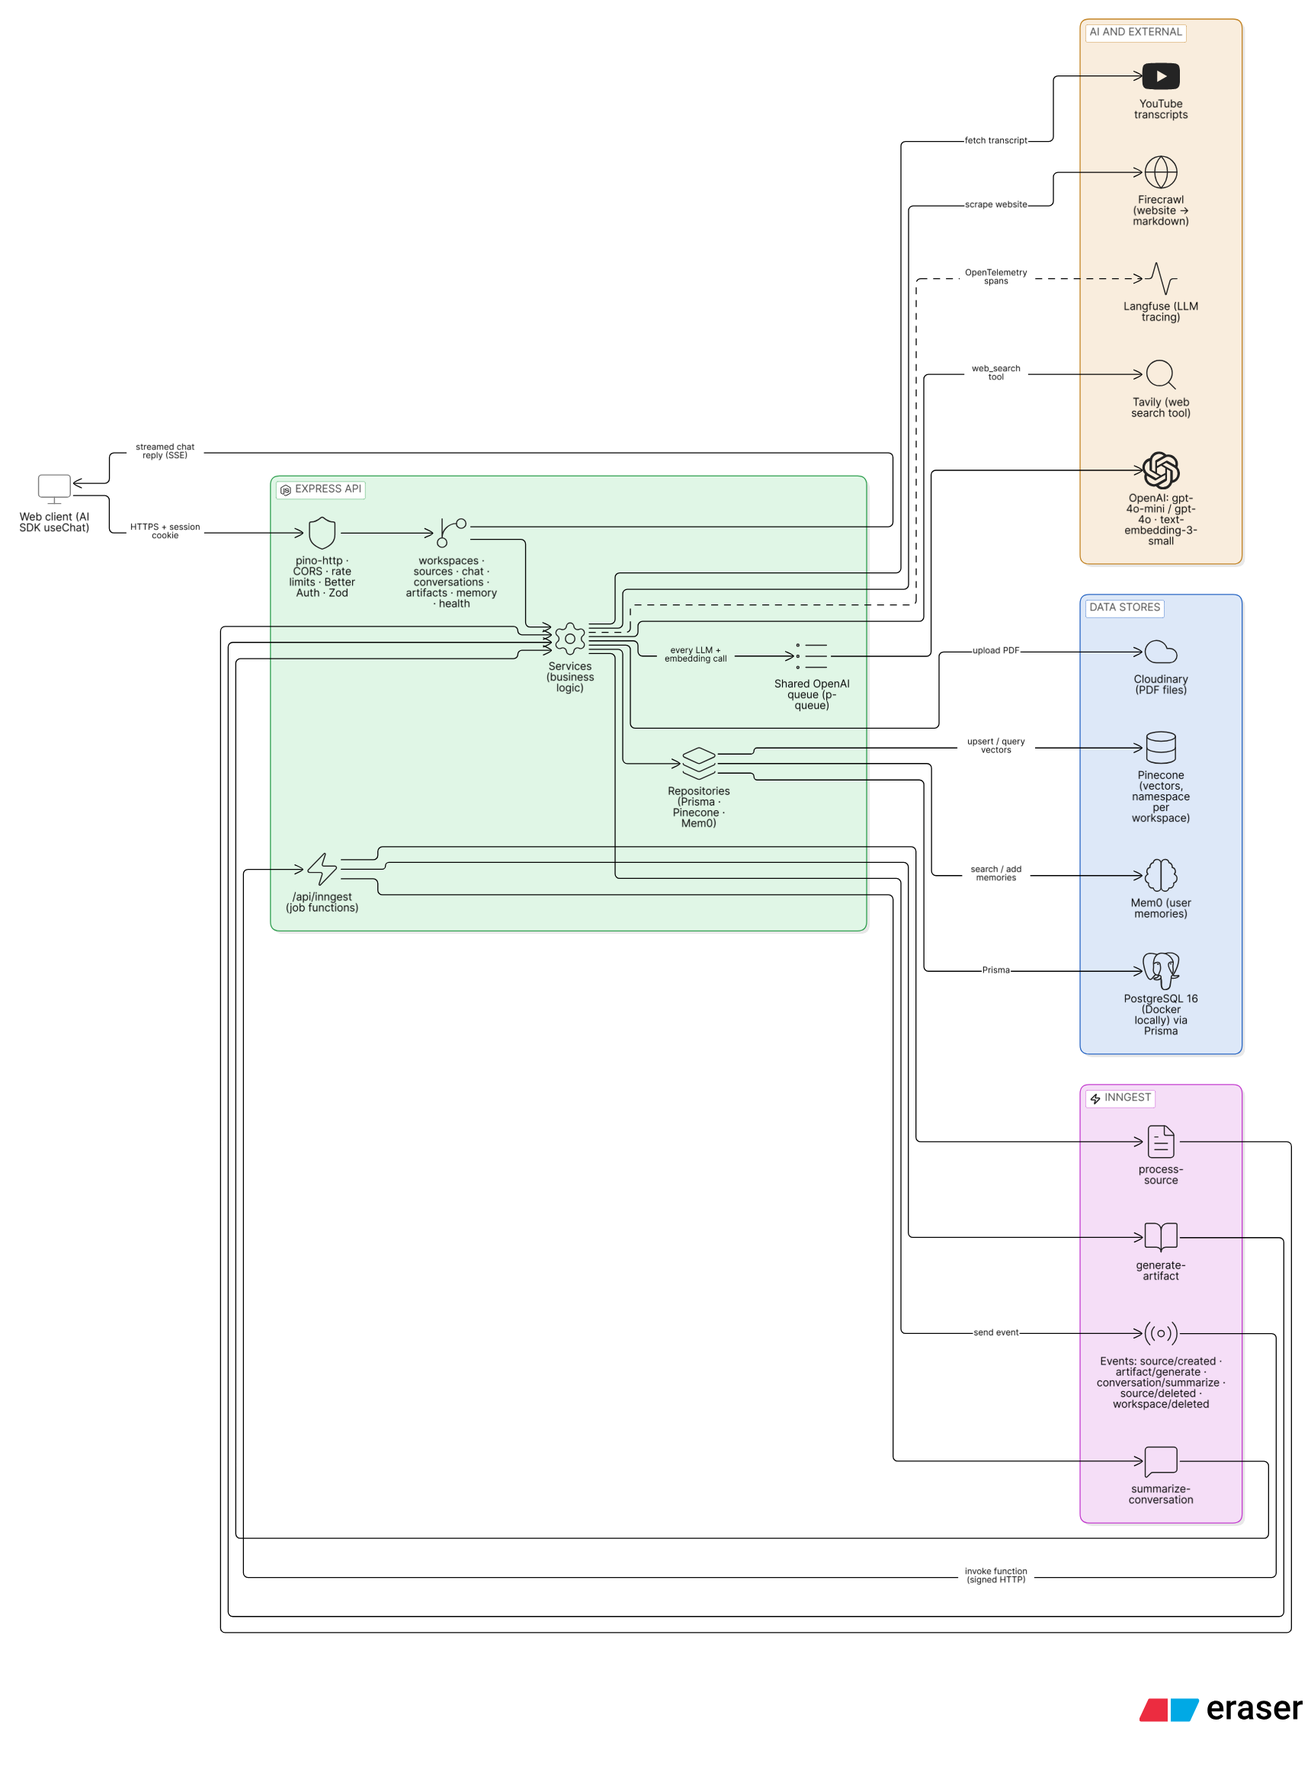
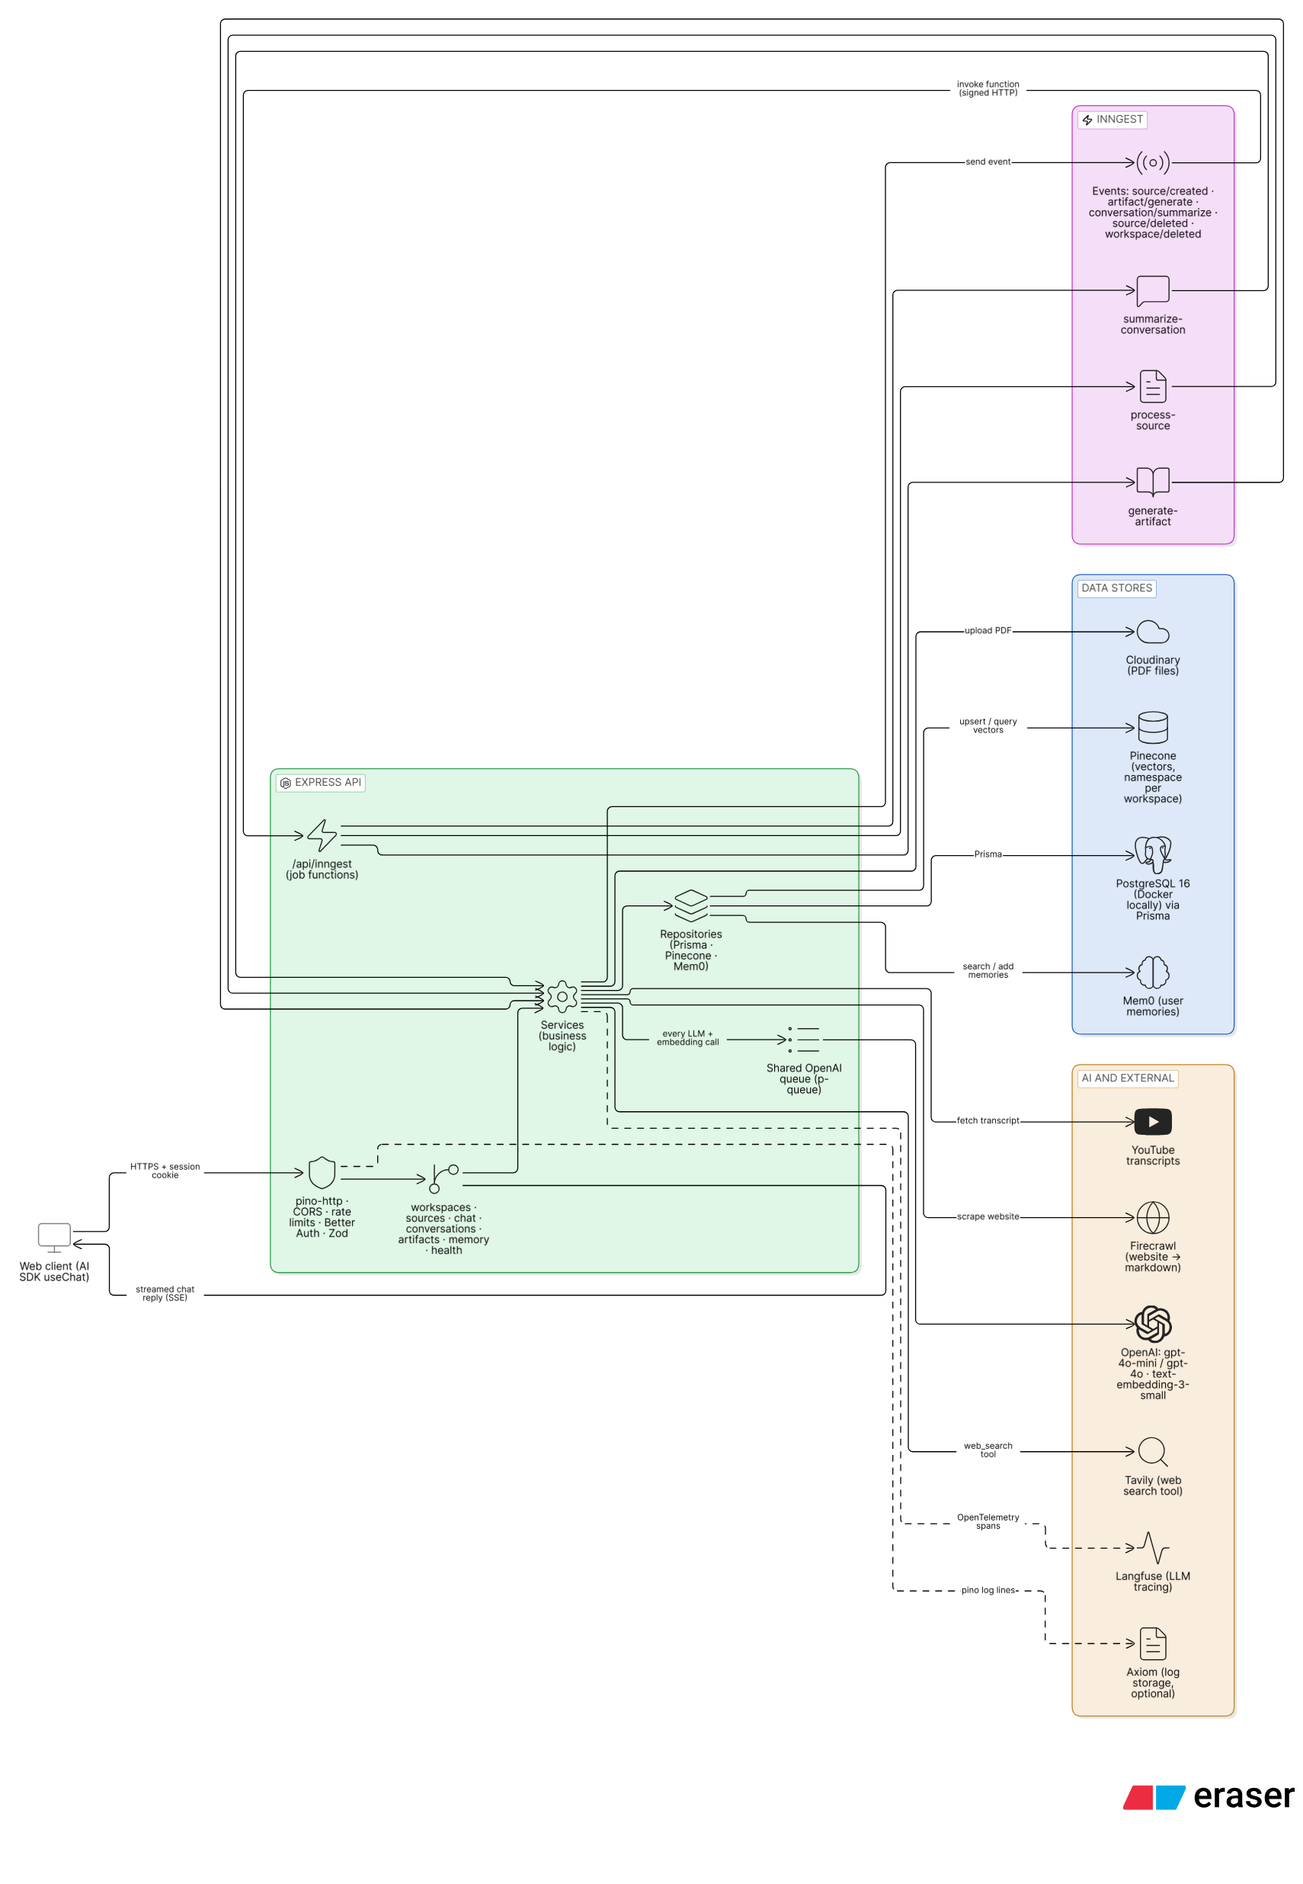
Ship logs to Axiom when configured

diff --git a/src/config/logger.ts b/src/config/logger.ts
@@ -4,27 +4,56 @@
  * JSON lines in production so any log platform can parse them; pretty-printed in
  * development. Per-request child loggers with a request id are attached by `pino-http`
  * in `app.ts` (`req.log`).
+ *
+ * When `AXIOM_TOKEN` is set, every log line is also shipped to Axiom's `AXIOM_DATASET`
+ * (searchable in its web UI), in addition to the console output.
  */
 
-import pino from "pino";
+import pino, { type TransportTargetOptions } from "pino";
 import { env, isProduction } from "./env.js";
+
+/** Minimum level written, from `LOG_LEVEL` or `info` in production / `debug` otherwise. */
+const level = env.LOG_LEVEL ?? (isProduction ? "info" : "debug");
+
+/** Console output: pretty in development, plain JSON on stdout in production. */
+const consoleTarget: TransportTargetOptions = isProduction
+    ? { target: "pino/file", level, options: { destination: 1 } }
+    : {
+          target: "pino-pretty",
+          level,
+          options: { translateTime: "SYS:HH:MM:ss", ignore: "pid,hostname" },
+      };
+
+/** Axiom output, only when a token is configured (env validation then guarantees a dataset). */
+const axiomTarget: TransportTargetOptions | null =
+    env.AXIOM_TOKEN && env.AXIOM_DATASET
+        ? {
+              target: "@axiomhq/pino",
+              level,
+              options: {
+                  token: env.AXIOM_TOKEN,
+                  dataset: env.AXIOM_DATASET,
+                  ...(env.AXIOM_EDGE ? { edge: env.AXIOM_EDGE } : {}),
+              },
+          }
+        : null;
+
+/**
+ * Transports to run in pino's worker thread. Production without Axiom writes straight to
+ * stdout instead (no worker), which is the fastest option.
+ */
+const targets = axiomTarget ? [consoleTarget, axiomTarget] : isProduction ? [] : [consoleTarget];
 
 /**
  * Root pino logger. Use `logger.child({ component })` for module-scoped loggers.
  *
- * Level comes from `LOG_LEVEL`, defaulting to `info` in production and `debug` otherwise.
  * Auth and cookie headers are redacted from logged requests/responses.
  */
 export const logger = pino({
-    level: env.LOG_LEVEL ?? (isProduction ? "info" : "debug"),
+    level,
     redact: {
         paths: ["req.headers.authorization", "req.headers.cookie", 'res.headers["set-cookie"]'],
         censor: "[redacted]",
     },
-    transport: isProduction
-        ? undefined
-        : {
-              target: "pino-pretty",
-              options: { translateTime: "SYS:HH:MM:ss", ignore: "pid,hostname" },
-          },
+    transport: targets.length > 0 ? { targets } : undefined,
 });

diff --git a/src/config/env.ts b/src/config/env.ts
@@ -80,6 +80,12 @@ const envSchema = z
         LANGFUSE_SECRET_KEY: optionalString,
         // EU cloud by default; US is https://us.cloud.langfuse.com, or your self-hosted URL.
         LANGFUSE_BASE_URL: optional(z.url()),
+
+        // Log shipping to Axiom; enabled by AXIOM_TOKEN, otherwise logs only go to stdout.
+        AXIOM_TOKEN: optionalString,
+        AXIOM_DATASET: optionalString,
+        // Regional ingest domain without scheme, e.g. eu-central-1.aws.edge.axiom.co. Blank = US.
+        AXIOM_EDGE: optionalString,
     })
     .superRefine((value, ctx) => {
         /**
@@ -108,6 +114,15 @@ const envSchema = z
             "signed Cloudinary downloads",
         );
         requireTogether(["LANGFUSE_PUBLIC_KEY", "LANGFUSE_SECRET_KEY"], "Langfuse tracing");
+
+        // AXIOM_TOKEN switches log shipping on; the dataset may be preset without a token.
+        if (value.AXIOM_TOKEN && !value.AXIOM_DATASET) {
+            ctx.addIssue({
+                code: "custom",
+                path: ["AXIOM_DATASET"],
+                message: "Required when AXIOM_TOKEN is set (Axiom log shipping)",
+            });
+        }
 
         const inngestDev = value.INNGEST_DEV === "1" || value.INNGEST_DEV === "true";
 

diff --git a/docs/ARCHITECTURE.md b/docs/ARCHITECTURE.md
@@ -98,6 +98,7 @@ flowchart LR
         FC["Firecrawl<br/>website scraping"]
         YT["YouTube<br/>transcripts"]
         LF["Langfuse<br/>LLM tracing"]
+        AX["Axiom<br/>log storage (optional)"]
     end
 
     Client -- "HTTPS + session cookie" --> MW
@@ -113,6 +114,7 @@ flowchart LR
     Svc --> FC
     Svc --> YT
     Svc -. OpenTelemetry spans .-> LF
+    MW -. pino log lines .-> AX
 ```
 
 <details>
@@ -204,6 +206,7 @@ flowchart LR
 | -------------------------------- | ---------------- | ------------------------------------------------------------------------------------- |
 | **pino** + **pino-http**         | Fast JSON logger | One structured log line per request with a request id; JSON in production             |
 | **pino-pretty** (dev only)       | Log formatter    | Readable, coloured logs in development                                                |
+| **Axiom** (`@axiomhq/pino`)      | Log storage      | Optional: ships every log line to Axiom so logs are stored and searchable in a web UI |
 | **Langfuse** + **OpenTelemetry** | LLM tracing      | See every prompt, response, token count and latency, grouped by user and conversation |
 
 ### Code quality and tooling
@@ -932,6 +935,13 @@ instance. Behind a proxy, set `TRUST_PROXY_HOPS` so the real client IP is used.
 - **Request ids:** each response has an `X-Request-Id` header. A caller-supplied `X-Request-Id`
   (letters, digits, `_`, `-`, ≤ 64 chars) is reused, so ids can follow a request across services.
 - **`req.log`** is a request-scoped child logger.
+- **Where logs go:** pino writes to stdout only, so locally they appear in the `[api]` lines of
+  the `npm run dev` terminal, and in production your host captures them (Render/Railway logs tab,
+  `docker logs`, CloudWatch, ...). Nothing is written to disk.
+- **Axiom (optional):** set `AXIOM_TOKEN` (plus `AXIOM_DATASET`, and `AXIOM_EDGE` for the region)
+  and every log line is also shipped to [Axiom](https://axiom.co) through the `@axiomhq/pino`
+  transport, alongside the console output. Search there by `req.id` (the `X-Request-Id`),
+  `userId`, `level` or `msg`. The free plan keeps logs for 30 days.
 - **Langfuse** for LLM calls (see [§10](#telemetry-langfuse)); **Inngest dashboard** for jobs;
   **Prisma Studio** (`npm run db:studio`) for data.
 
@@ -943,32 +953,35 @@ All environment variables are validated at boot by [`src/config/env.ts`](../src/
 the server exits with a readable list of problems if anything is wrong. Nothing else reads
 `process.env`. Blank values (`FOO=`) count as unset. Copy [`.env.example`](../.env.example) to `.env`.
 
-| Variable                                             | Required | Default                       | Purpose                                                                |
-| ---------------------------------------------------- | -------- | ----------------------------- | ---------------------------------------------------------------------- |
-| `NODE_ENV`                                           |          | `development`                 | `development` / `test` / `production`                                  |
-| `PORT`                                               |          | `8080`                        | HTTP port                                                              |
-| `CLIENT_URL`                                         |          | `http://localhost:3000`       | Web client origin (CORS, trusted origin)                               |
-| `TRUST_PROXY_HOPS`                                   |          | `0`                           | Reverse proxies in front of the app                                    |
-| `LOG_LEVEL`                                          |          | `debug` / `info`              | pino level                                                             |
-| `DATABASE_URL`                                       | **yes**  |                               | Postgres connection string                                             |
-| `BETTER_AUTH_SECRET`                                 | **yes**  |                               | Signs sessions; long random string                                     |
-| `BETTER_AUTH_URL`                                    |          | `CLIENT_URL`                  | Public base URL of the auth routes                                     |
-| `GOOGLE_CLIENT_ID` / `GOOGLE_CLIENT_SECRET`          | pair     |                               | Google login                                                           |
-| `OPENAI_API_KEY`                                     | **yes**  |                               | OpenAI                                                                 |
-| `OPENAI_MAX_CONCURRENCY`                             |          | `4`                           | Outbound queue concurrency                                             |
-| `OPENAI_REQUESTS_PER_MINUTE`                         |          | `300`                         | Outbound queue rate                                                    |
-| `OPENAI_MAX_QUEUE`                                   |          | `100`                         | Waiting calls before 429                                               |
-| `PINECONE_API_KEY`                                   | **yes**  |                               | Pinecone                                                               |
-| `PINECONE_INDEX`                                     |          | `grounded-brain-notebook-llm` | Index name (auto-created: 1536 dims, cosine, AWS us-east-1 serverless) |
-| `INNGEST_DEV`                                        |          |                               | `1` to use the local dev server                                        |
-| `INNGEST_EVENT_KEY` / `INNGEST_SIGNING_KEY`          | **prod** |                               | Inngest Cloud                                                          |
-| `CLOUDINARY_CLOUD_NAME` / `CLOUDINARY_UPLOAD_PRESET` | pair     |                               | PDF uploads (unsigned preset)                                          |
-| `CLOUDINARY_API_KEY` / `CLOUDINARY_API_SECRET`       | pair     |                               | Signed downloads of private PDFs                                       |
-| `FIRECRAWL_API_KEY`                                  |          |                               | Website imports                                                        |
-| `TAVILY_API_KEY`                                     |          |                               | Web search                                                             |
-| `MEM0_API_KEY`                                       |          |                               | Memories                                                               |
-| `LANGFUSE_PUBLIC_KEY` / `LANGFUSE_SECRET_KEY`        | pair     |                               | LLM tracing                                                            |
-| `LANGFUSE_BASE_URL`                                  |          | EU cloud                      | Langfuse region or self-hosted URL                                     |
+| Variable                                             | Required   | Default                       | Purpose                                                                |
+| ---------------------------------------------------- | ---------- | ----------------------------- | ---------------------------------------------------------------------- |
+| `NODE_ENV`                                           |            | `development`                 | `development` / `test` / `production`                                  |
+| `PORT`                                               |            | `8080`                        | HTTP port                                                              |
+| `CLIENT_URL`                                         |            | `http://localhost:3000`       | Web client origin (CORS, trusted origin)                               |
+| `TRUST_PROXY_HOPS`                                   |            | `0`                           | Reverse proxies in front of the app                                    |
+| `LOG_LEVEL`                                          |            | `debug` / `info`              | pino level                                                             |
+| `DATABASE_URL`                                       | **yes**    |                               | Postgres connection string                                             |
+| `BETTER_AUTH_SECRET`                                 | **yes**    |                               | Signs sessions; long random string                                     |
+| `BETTER_AUTH_URL`                                    |            | `CLIENT_URL`                  | Public base URL of the auth routes                                     |
+| `GOOGLE_CLIENT_ID` / `GOOGLE_CLIENT_SECRET`          | pair       |                               | Google login                                                           |
+| `OPENAI_API_KEY`                                     | **yes**    |                               | OpenAI                                                                 |
+| `OPENAI_MAX_CONCURRENCY`                             |            | `4`                           | Outbound queue concurrency                                             |
+| `OPENAI_REQUESTS_PER_MINUTE`                         |            | `300`                         | Outbound queue rate                                                    |
+| `OPENAI_MAX_QUEUE`                                   |            | `100`                         | Waiting calls before 429                                               |
+| `PINECONE_API_KEY`                                   | **yes**    |                               | Pinecone                                                               |
+| `PINECONE_INDEX`                                     |            | `grounded-brain-notebook-llm` | Index name (auto-created: 1536 dims, cosine, AWS us-east-1 serverless) |
+| `INNGEST_DEV`                                        |            |                               | `1` to use the local dev server                                        |
+| `INNGEST_EVENT_KEY` / `INNGEST_SIGNING_KEY`          | **prod**   |                               | Inngest Cloud                                                          |
+| `CLOUDINARY_CLOUD_NAME` / `CLOUDINARY_UPLOAD_PRESET` | pair       |                               | PDF uploads (unsigned preset)                                          |
+| `CLOUDINARY_API_KEY` / `CLOUDINARY_API_SECRET`       | pair       |                               | Signed downloads of private PDFs                                       |
+| `FIRECRAWL_API_KEY`                                  |            |                               | Website imports                                                        |
+| `TAVILY_API_KEY`                                     |            |                               | Web search                                                             |
+| `MEM0_API_KEY`                                       |            |                               | Memories                                                               |
+| `LANGFUSE_PUBLIC_KEY` / `LANGFUSE_SECRET_KEY`        | pair       |                               | LLM tracing                                                            |
+| `LANGFUSE_BASE_URL`                                  |            | EU cloud                      | Langfuse region or self-hosted URL                                     |
+| `AXIOM_TOKEN`                                        |            |                               | Ship logs to Axiom (ingest token); off when unset                      |
+| `AXIOM_DATASET`                                      | with token |                               | Axiom dataset name                                                     |
+| `AXIOM_EDGE`                                         |            | US                            | Regional ingest domain, e.g. `us-east-1.aws.edge.axiom.co`             |
 
 "pair" means both must be set or neither. Optional integrations degrade gracefully: their
 endpoints return **503** and the rest of the app keeps working.
@@ -1040,7 +1053,7 @@ npm start                  # node dist/server.js
 - [ ] Health checks: liveness `GET /health`, readiness `GET /health/ready`.
 - [ ] The process handles `SIGTERM`: stops accepting connections and flushes traces.
 - [ ] Tune `OPENAI_*` limits to your OpenAI tier.
-- [ ] Optional: Langfuse keys for tracing; Cloudinary, Firecrawl, Tavily, Mem0 keys for those features.
+- [ ] Optional: Langfuse keys for tracing; Axiom keys for stored, searchable logs; Cloudinary, Firecrawl, Tavily, Mem0 keys for those features.
 - [ ] **Running more than one instance:** inbound rate-limit counters are per instance, and so
       is the OpenAI queue. Use a shared store (for example `rate-limit-redis`) if limits must be global.
 

diff --git a/README.md b/README.md
@@ -100,7 +100,7 @@ flowchart LR
 | **YouTube**              | [youtube-transcript](https://www.npmjs.com/package/youtube-transcript)                                             | Video transcripts                                                           |
 | **File uploads**         | [multer](https://github.com/expressjs/multer), sanitize-filename                                                   | Multipart PDF uploads with limits                                           |
 | **Rate limiting**        | [express-rate-limit](https://express-rate-limit.mintlify.app/), [p-queue](https://github.com/sindresorhus/p-queue) | Inbound limits per IP/user; outbound OpenAI throttling                      |
-| **Logging**              | [pino](https://getpino.io/), pino-http, pino-pretty                                                                | Structured JSON logs with request ids                                       |
+| **Logging**              | [pino](https://getpino.io/), pino-http, pino-pretty; optional [Axiom](https://axiom.co/)                           | Structured JSON logs with request ids; stored and searchable in Axiom       |
 | **LLM observability**    | [Langfuse](https://langfuse.com/) + OpenTelemetry                                                                  | Traces of every prompt, response, token count and latency                   |
 | **Linting**              | [ESLint 10](https://eslint.org/) + typescript-eslint (type-aware)                                                  | Static analysis                                                             |
 | **Formatting**           | [Prettier](https://prettier.io/)                                                                                   | Consistent code style                                                       |
@@ -132,6 +132,7 @@ flowchart LR
     Q --> OAI["OpenAI"]
     S --> EXT["Tavily · Firecrawl · YouTube"]
     S -.-> LF["Langfuse"]
+    MW -. logs .-> AX["Axiom"]
 ```
 
 <details>
@@ -171,6 +172,7 @@ Icon diagrams (Eraser) are in [docs/diagrams](docs/diagrams/README.md).
 | [Tavily](https://tavily.com/)                  | optional                                    | Web search in chat                                 |
 | [Mem0](https://app.mem0.ai/)                   | optional                                    | Memories                                           |
 | [Langfuse](https://langfuse.com/)              | optional                                    | LLM tracing                                        |
+| [Axiom](https://axiom.co/)                     | optional                                    | Stored, searchable logs                            |
 | Google OAuth client                            | optional locally / yes in production        | Google sign-in                                     |
 
 Optional integrations degrade gracefully: their endpoints return `503` and everything else works.
